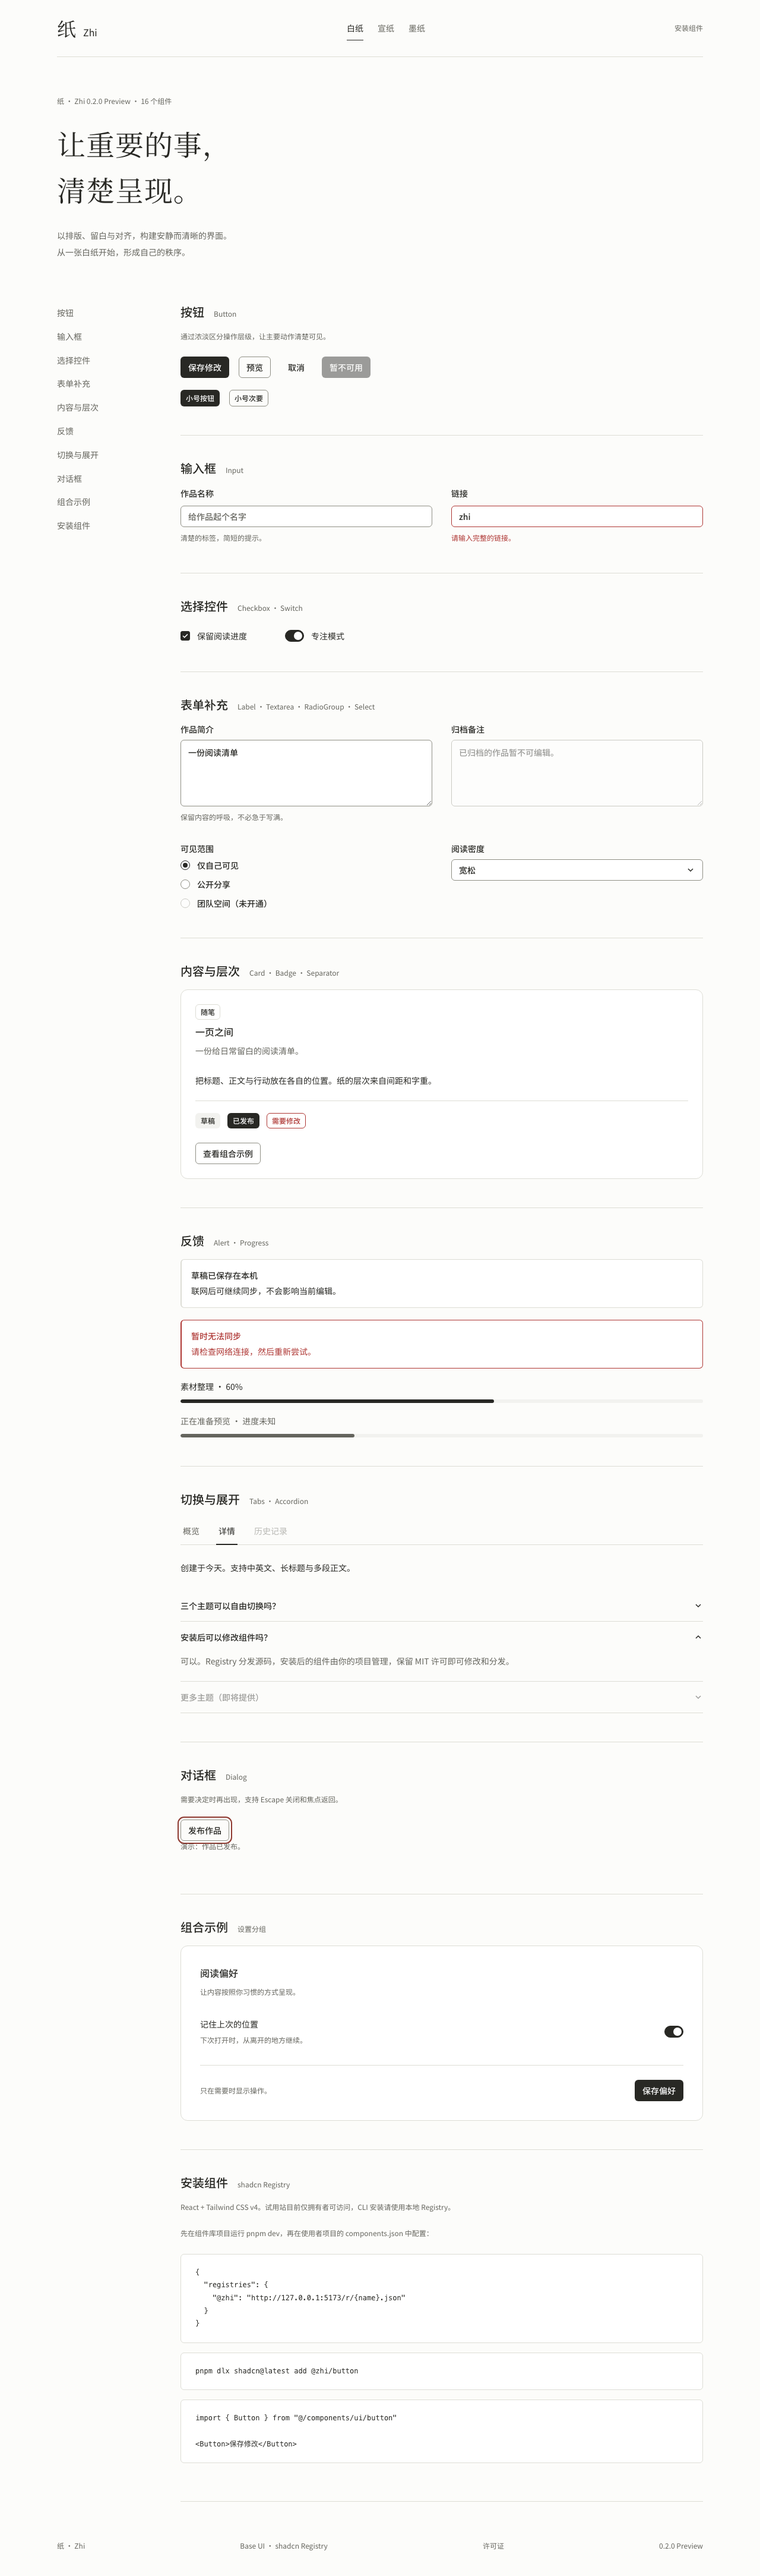
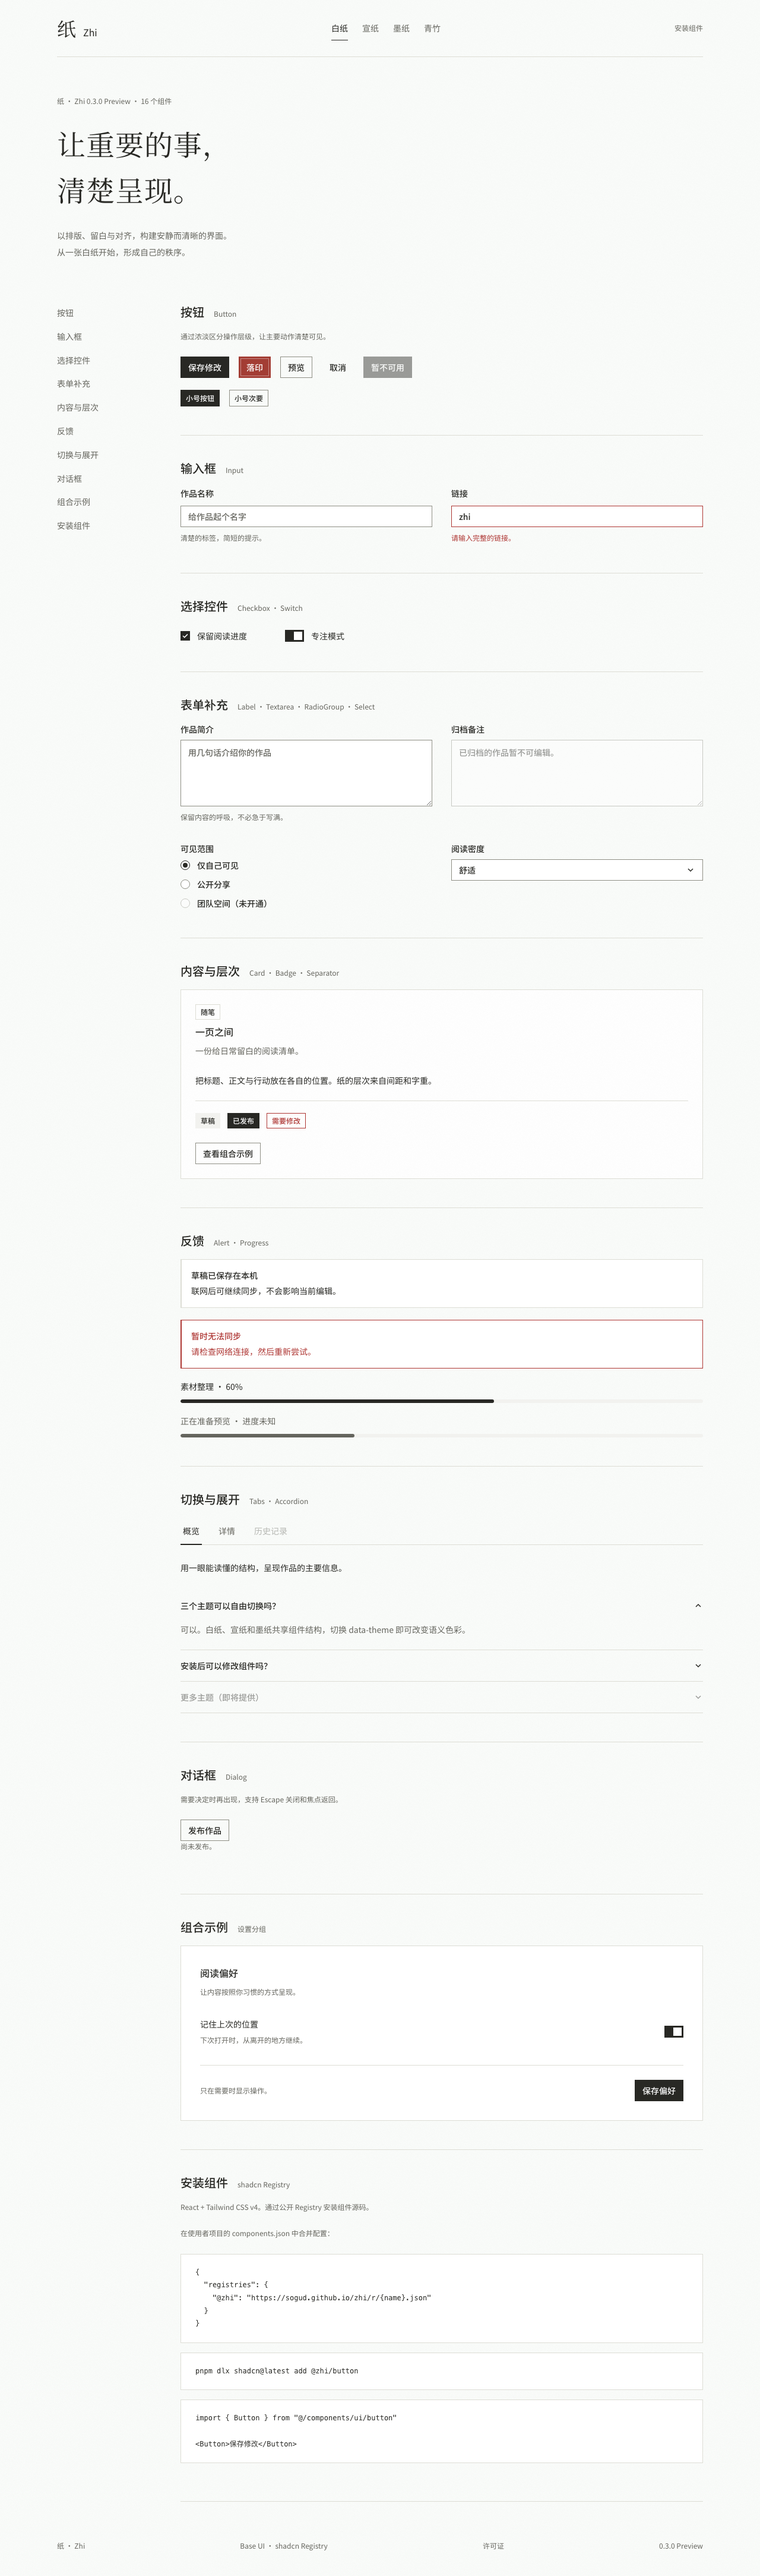
Refresh paper theme previews and keep Skill discovery unambiguous

diff --git a/src/DocsApp.tsx b/src/DocsApp.tsx
@@ -13,7 +13,7 @@ import { Label } from "@/registry/ui/label";
 import { Input } from "@/registry/ui/input";
 import { Switch } from "@/registry/ui/switch";
 
-const guides = ["installation", "design", "resources", "skill", "components"];
+const guides = ["installation", "design", "resources", "agent-skill", "components"];
 
 export function DocsApp() {
   const route = decodeURIComponent(location.pathname.slice(base.length)).replace(/\/$/, "");
@@ -54,7 +54,7 @@ export function DocsApp() {
       <a className="skip-link" href="#main-content">跳到正文</a>
       <header className="docs-header">
         <a href={base} className="brand"><span className="brand-mark seal-brand">纸</span><span>Zhi</span></a>
-        <nav aria-label="主导航"><a href={docHref("installation")}>文档</a><a href={base + "playground/"}>组件预览</a><a href={docHref("skill")}>Skill</a><a href={site.repository}>GitHub</a></nav>
+        <nav aria-label="主导航"><a href={docHref("installation")}>文档</a><a href={base + "playground/"}>组件预览</a><a href={docHref("agent-skill")}>Skill</a><a href={site.repository}>GitHub</a></nav>
         <div className="docs-themes" role="group" aria-label="主题">
           {tokens.themes.map((item) => <button key={item.id} type="button" aria-pressed={theme === item.id} onClick={() => setTheme(item.id)}>{item.name}</button>)}
         </div>
@@ -76,7 +76,7 @@ export function DocsApp() {
             </div>
             <a className="nature-resource-link" href={docHref("resources")}>获取原创 SVG 与纸纹素材</a>
           </section>
-          <section className="home-bottom"><div><h2>给人用，也给 Agent 用。</h2><p>组件源码、设计 tokens 与 Skill，一起交付。</p></div><a href={docHref("skill")}>了解 Zhi Skill</a><a href={docHref("resources")}>获取设计资源</a></section>
+          <section className="home-bottom"><div><h2>给人用，也给 Agent 用。</h2><p>组件源码、设计 tokens 与 Skill，一起交付。</p></div><a href={docHref("agent-skill")}>了解 Zhi Skill</a><a href={docHref("resources")}>获取设计资源</a></section>
         </main>
       ) : (
         <div className="docs-layout">

diff --git a/design/README.md b/design/README.md
@@ -3,8 +3,9 @@
 The design resources in this directory are released under the project's [MIT license](../LICENSE). You may use, modify and redistribute them with the license notice.
 
 - [Design specification](../docs/design.md): typography, spacing, alignment and component states.
-- [Component catalog](../docs/components.md): the 16 installable components in 0.2.0.
-- [White Paper](catalog-baizhi.png), [Xuan Paper](catalog-xuanzhi.png) and [Ink Paper](catalog-mozhi.png): rendered 0.2.0 component previews, including the new components.
+- [Component catalog](../docs/components.md): the 16 installable components in 0.3.0.
+- [White Paper](catalog-baizhi.png), [Xuan Paper](catalog-xuanzhi.png) and [Ink Paper](catalog-mozhi.png) and [Bamboo](catalog-qingzhu.png): rendered 0.3.0 component previews, including the new components.
+- `motifs/` and `textures/`: original bamboo, cloud, rain, snow, seal frame and paper grain.
 - [tokens.json](tokens.json): the source of truth for code themes and dimensions.
 - [preview.png](preview.png): the original 0.1 Figma review board, exported on 2026-10-26.
 - `components/{baizhi,xuanzhi,mozhi}/`: 12 SVG sheets covering Button, Input, Checkbox and Switch variants. Text remains editable and requires Noto Sans SC / Noto Serif SC.
@@ -12,7 +13,7 @@ The design resources in this directory are released under the project's [MIT lic
 - [figma.json](figma.json): source file and component IDs.
 - [Editable Figma library](https://www.figma.com/design/XWvrkynXWsb4ezYtAGu6SV?node-id=4-2): the original components, auto layout and variable bindings. Figma access follows the file's sharing settings.
 
-The Figma file, SVG sheets and variable snapshot cover the original four components. The twelve additions in 0.2.0 are available as editable React source and rendered previews; their Figma master components are pending. SVG files can be opened in a browser or imported into a vector editor. Imported SVGs do not preserve Figma component relationships, auto layout or variable bindings. A native `.fig` archive is not included because the connected plugin cannot export that format.
+The Figma file, SVG sheets and variable snapshot cover the original four components. The twelve additions in 0.3.0 are available as editable React source and rendered previews; their Figma master components are pending. SVG files can be opened in a browser or imported into a vector editor. Imported SVGs do not preserve Figma component relationships, auto layout or variable bindings. A native `.fig` archive is not included because the connected plugin cannot export that format.
 
 Edit `tokens.json` and run `pnpm tokens:build` for code theme changes. After updating Figma, refresh the SVGs, preview and snapshot together. Do not edit the snapshot to change code themes.
 

diff --git a/skills/zhi/references/resources.md b/skills/zhi/references/resources.md
@@ -23,8 +23,9 @@
 - [白纸](https://github.com/sogud/zhi/blob/main/design/catalog-baizhi.png)
 - [宣纸](https://github.com/sogud/zhi/blob/main/design/catalog-xuanzhi.png)
 - [墨纸](https://github.com/sogud/zhi/blob/main/design/catalog-mozhi.png)
+- [青竹](https://github.com/sogud/zhi/blob/main/design/catalog-qingzhu.png)
 
-三张预览与原有 SVG 图板保留早期设计，可能含旧圆角；当前外观以文档站、源码和 tokens 为准。SVG 图板覆盖最初的 Button、Input、Checkbox、Switch，可以导入矢量编辑器，文字需要 Noto Sans SC / Noto Serif SC 字体。
+四张渲染预览覆盖当前 16 个直角组件与四个主题。原有 SVG 图板保留早期圆角设计，覆盖最初的 Button、Input、Checkbox、Switch，可以导入矢量编辑器，文字需要 Noto Sans SC / Noto Serif SC 字体。
 
 ## Figma
 

diff --git a/docs/resources.md b/docs/resources.md
@@ -23,8 +23,9 @@
 - [白纸](../design/catalog-baizhi.png)
 - [宣纸](../design/catalog-xuanzhi.png)
 - [墨纸](../design/catalog-mozhi.png)
+- [青竹](../design/catalog-qingzhu.png)
 
-三张预览与原有 SVG 图板保留早期设计，可能含旧圆角；当前外观以文档站、源码和 tokens 为准。SVG 图板覆盖最初的 Button、Input、Checkbox、Switch，可以导入矢量编辑器，文字需要 Noto Sans SC / Noto Serif SC 字体。
+四张渲染预览覆盖当前 16 个直角组件与四个主题。原有 SVG 图板保留早期圆角设计，覆盖最初的 Button、Input、Checkbox、Switch，可以导入矢量编辑器，文字需要 Noto Sans SC / Noto Serif SC 字体。
 
 ## Figma
 

diff --git a/README.md b/README.md
@@ -62,7 +62,7 @@ React, Tailwind CSS v4 and shadcn configuration are required. The installer adds
 npx skills add sogud/zhi --skill zhi
 ```
 
-The Skill includes component guides, design rules, tokens, theme CSS and SVG assets. See [Skill usage](docs/skill.md).
+The Skill includes component guides, design rules, tokens, theme CSS and SVG assets. See [Skill usage](docs/agent-skill.md).
 
 ## Documentation hosting
 
